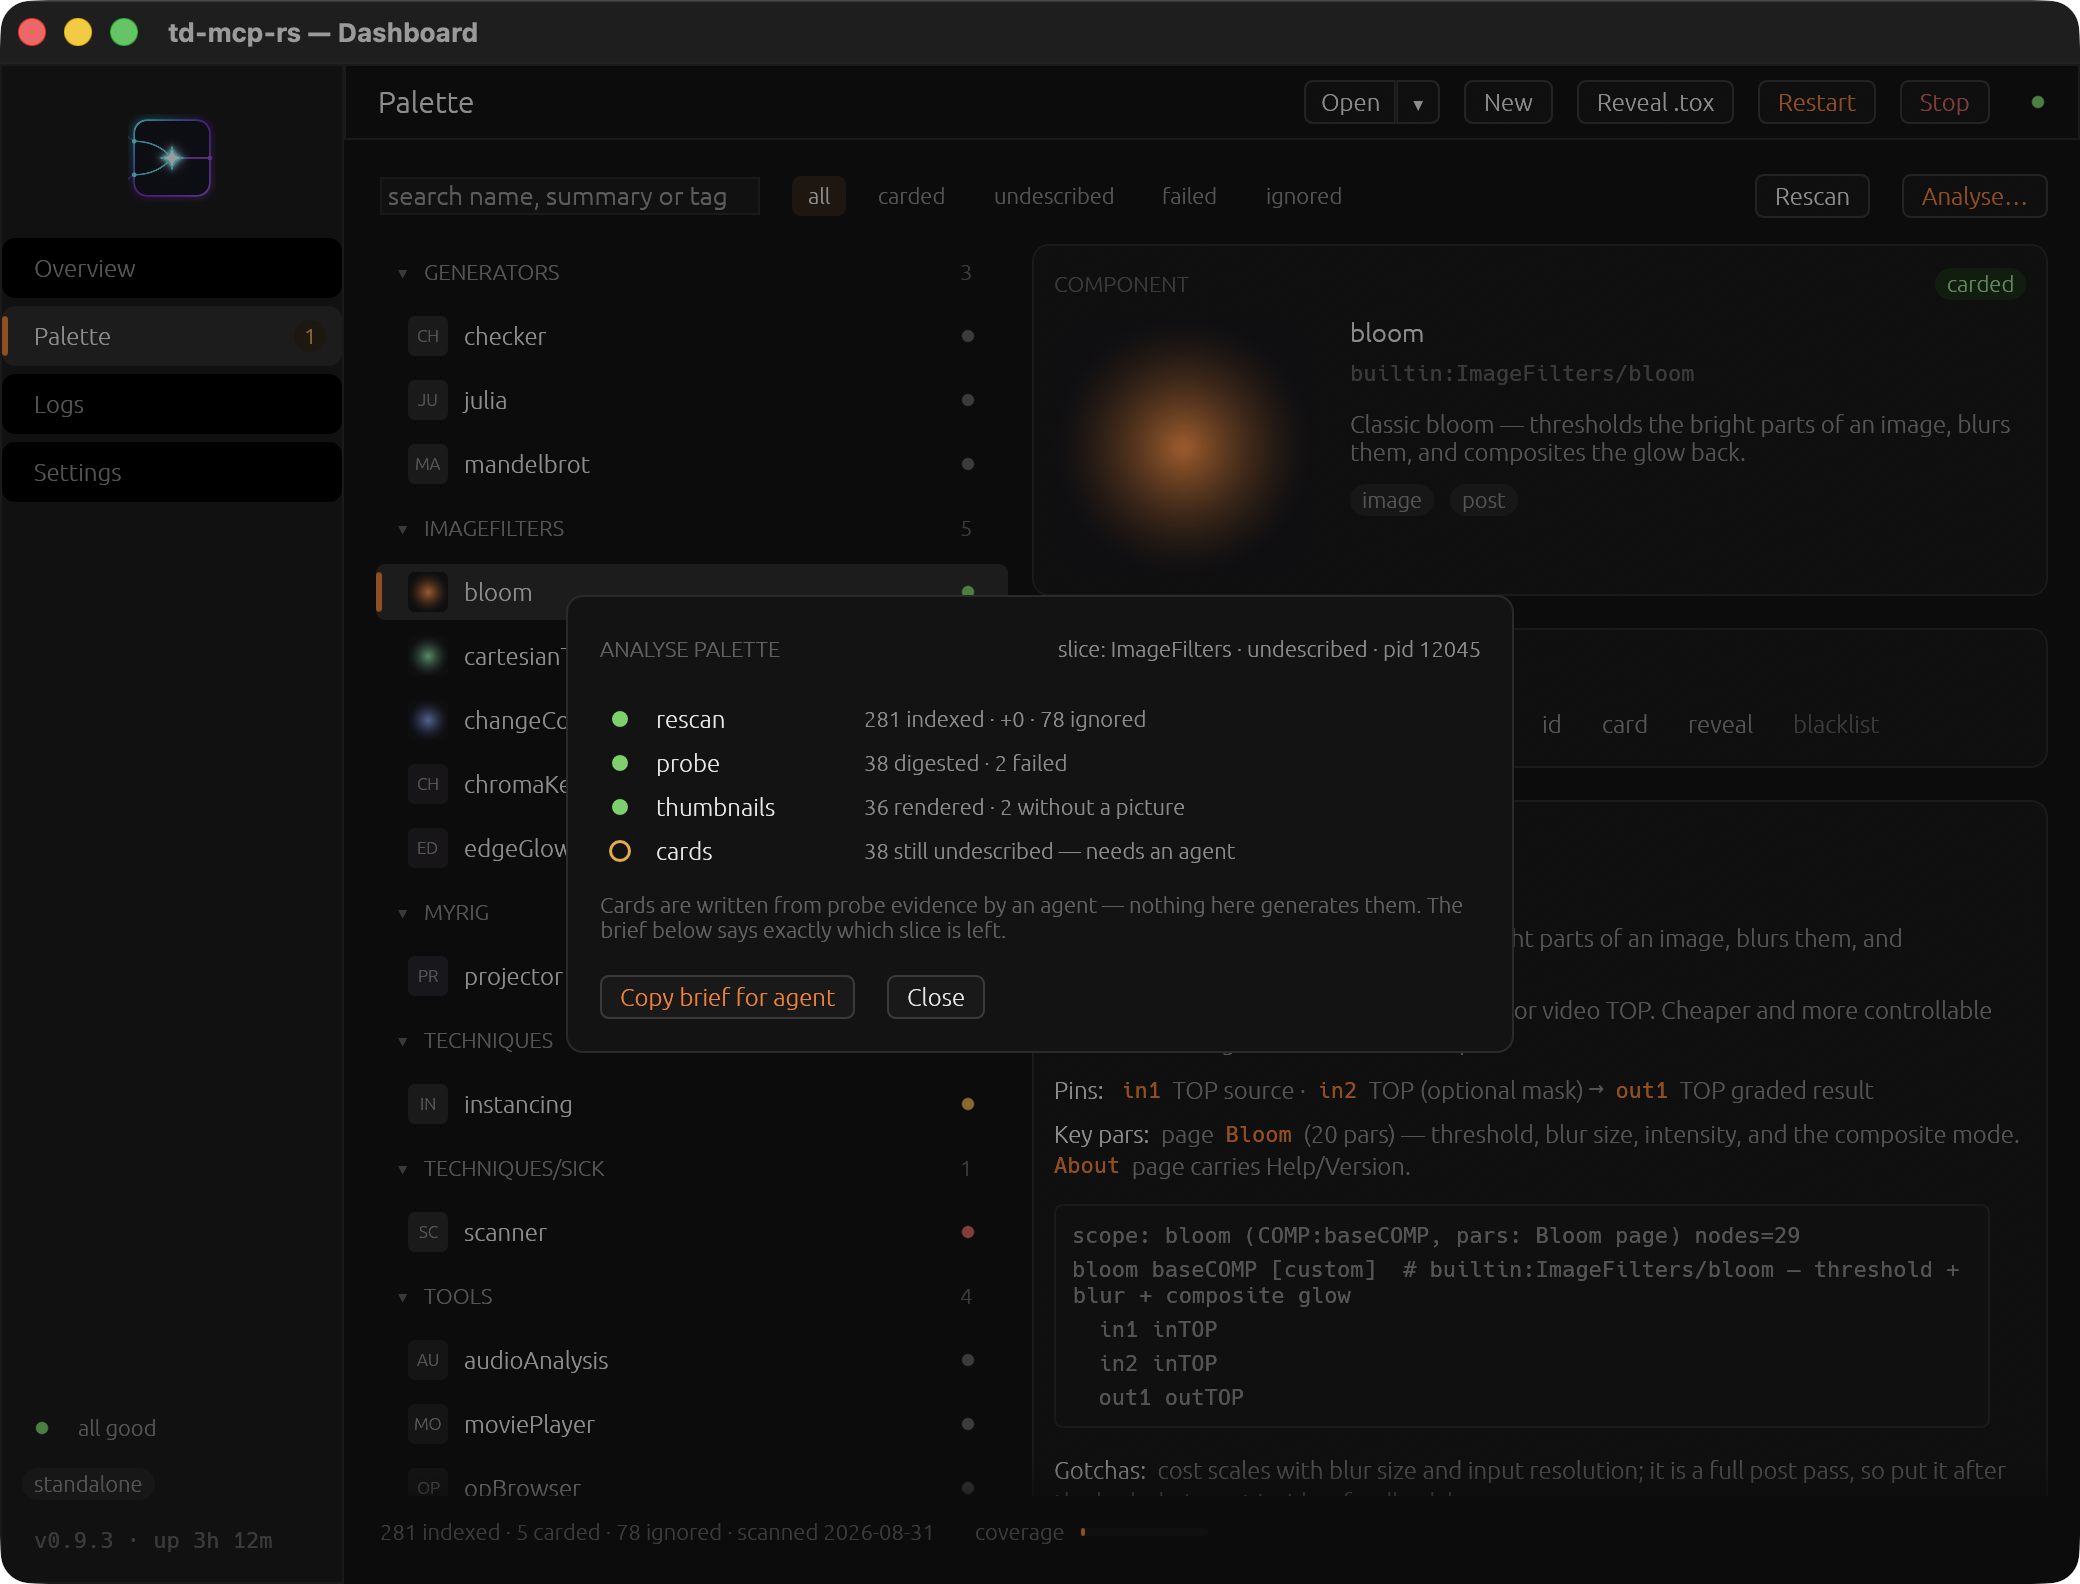
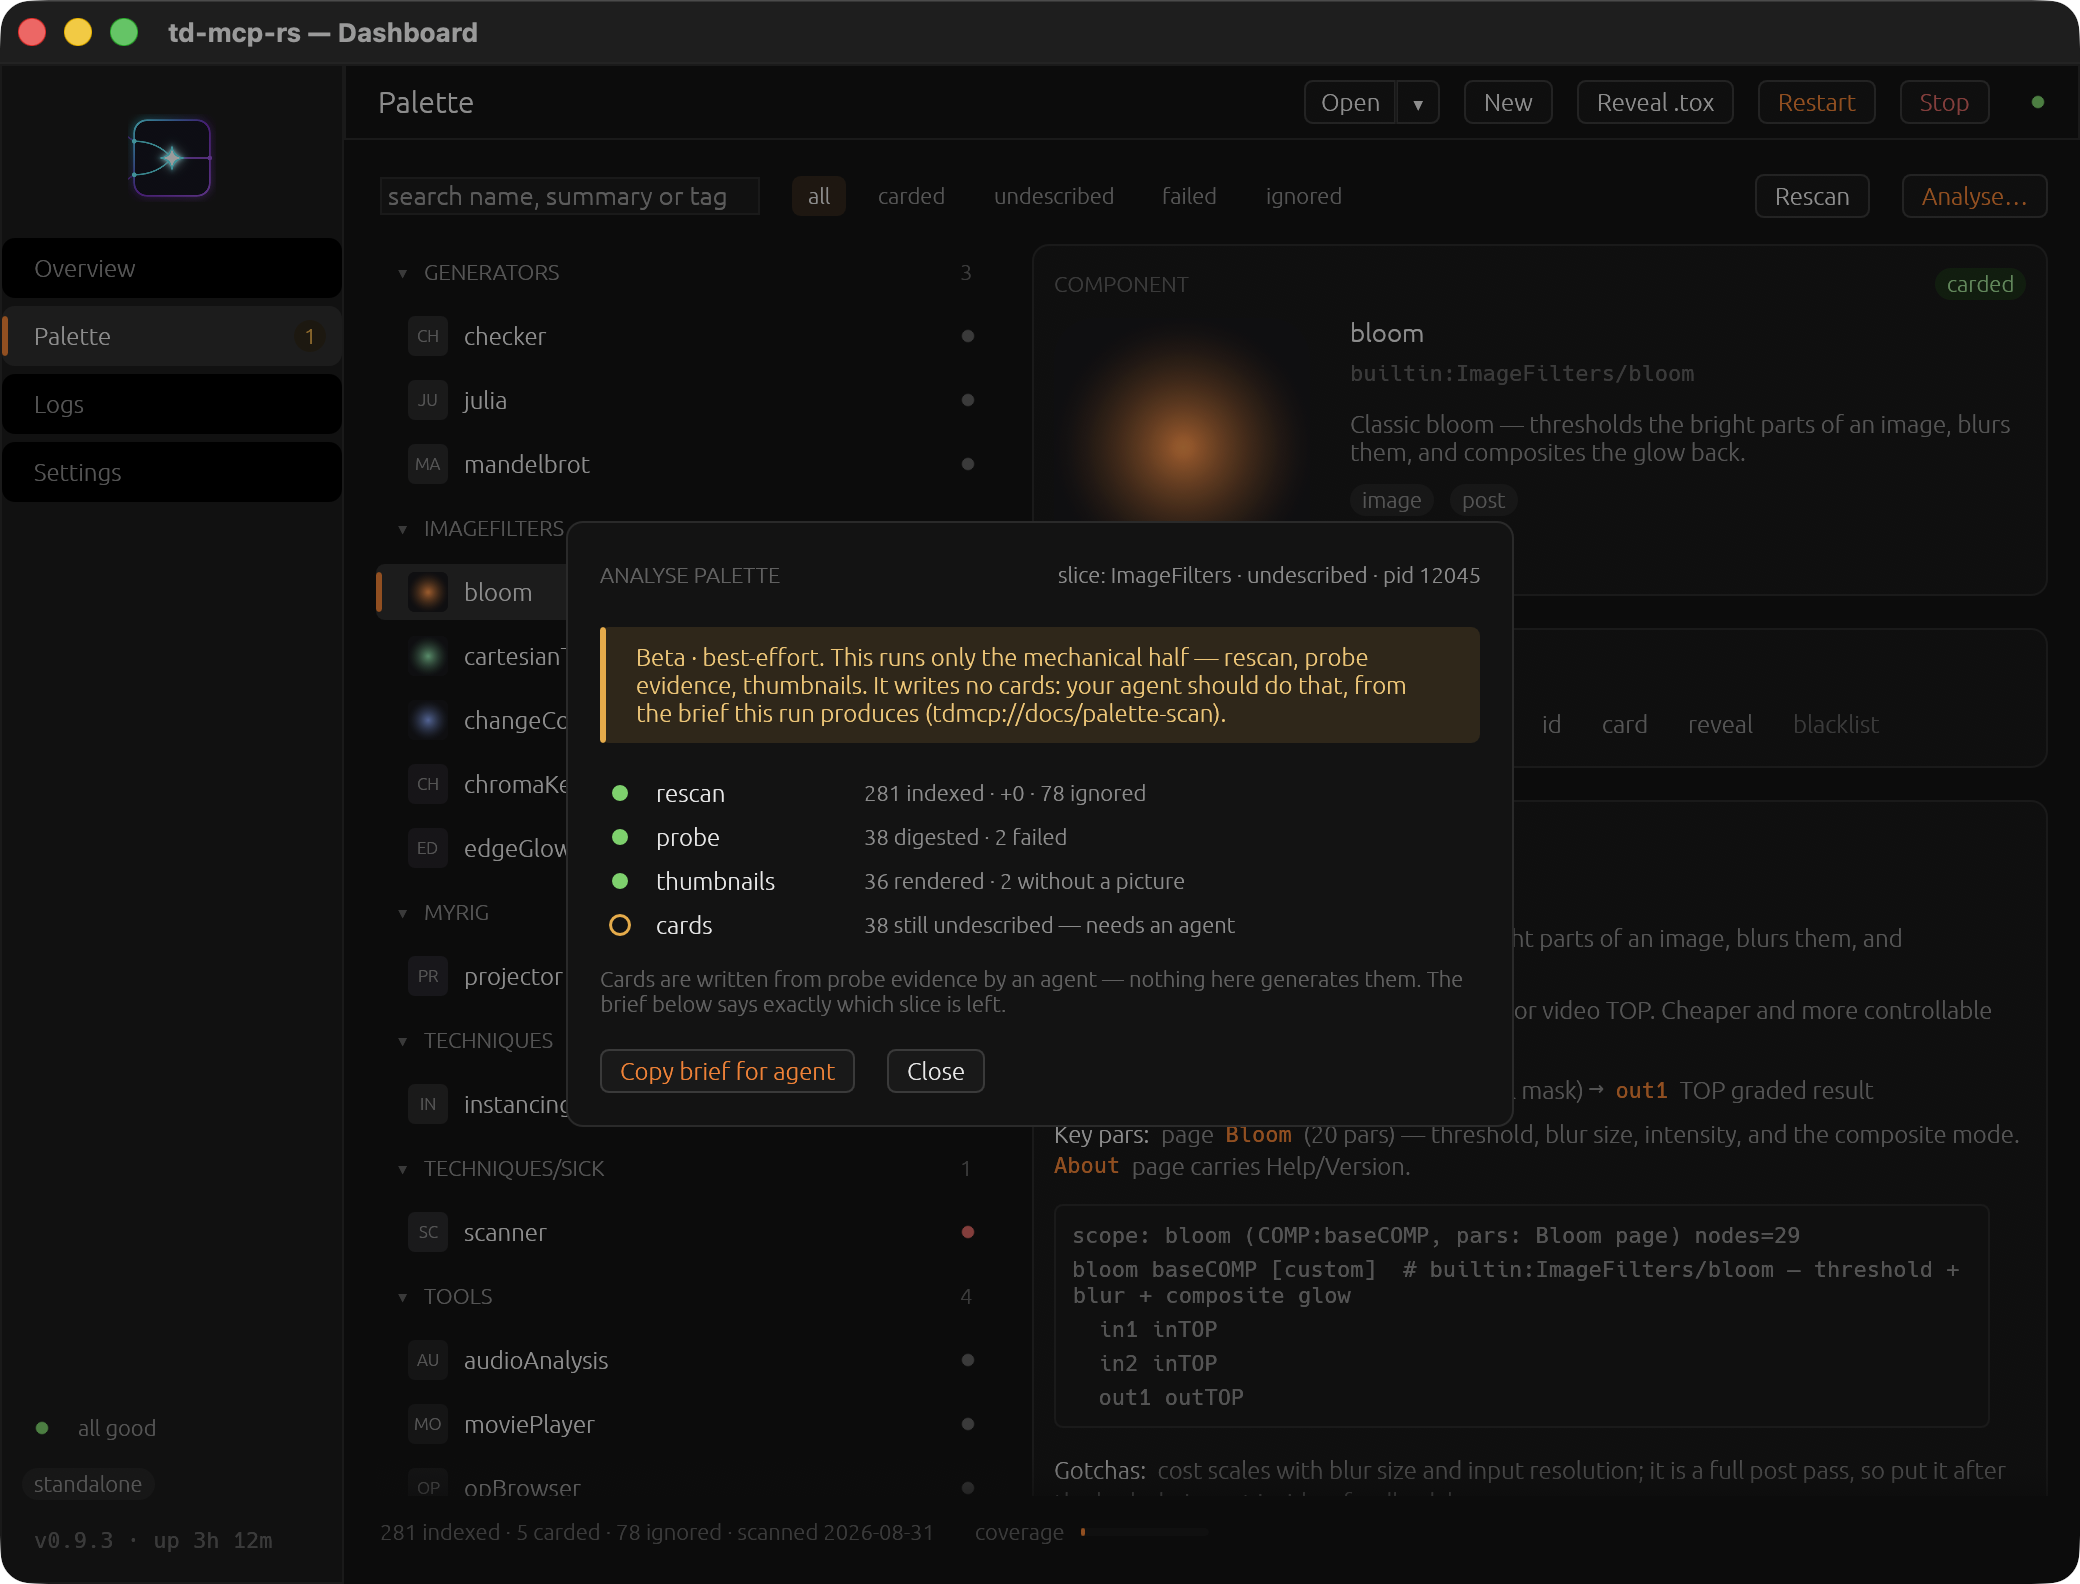
fix: gui

Changed region(s): [[0.2812, 0.3403, 0.7188, 0.7115], [0.5, 0.6806, 0.7188, 0.7115], [0.5625, 0.3093, 0.5938, 0.3403]]

diff --git a/crates/tdmcp-gui/src/dashboard/palette.rs b/crates/tdmcp-gui/src/dashboard/palette.rs
@@ -964,6 +964,18 @@ pub(crate) fn analyse_modal(app: &mut DashboardApp, ctx: &egui::Context) {
         );
         ui.add_space(sp::MD);
 
+        // The GUI only does the mechanical half — it has no LLM, so cards are
+        // never written here. Say so up front: this is a best-effort, partial
+        // pass, and the describe loop belongs to the agent.
+        crate::theme::banner(
+            ui,
+            crate::theme::BannerTone::Warn,
+            "Beta · best-effort. This runs only the mechanical half — rescan, probe \
+             evidence, thumbnails. It writes no cards: your agent should do that, from \
+             the brief this run produces (tdmcp://docs/palette-scan).",
+        );
+        ui.add_space(sp::MD);
+
         if !running && !finished {
             ui.label(
                 egui::RichText::new(

diff --git a/README.md b/README.md
@@ -14,6 +14,7 @@ your whole studio, with whatever assistant you already use.**
 [![Version](https://img.shields.io/badge/version-0.1.4-6e7bff?style=flat-square)](CHANGELOG.md)
 [![Platform](https://img.shields.io/badge/Windows%20%C2%B7%20macOS-b58cff?style=flat-square)](#step-1--install-the-daemon)
 [![No account](https://img.shields.io/badge/no%20account%20%C2%B7%20no%20cloud%20%C2%B7%20no%20telemetry-ff8b3d?style=flat-square)](#private-by-design)
+[![Buy me a coffee](https://img.shields.io/badge/%E2%98%95_Buy_me_a_coffee-FFDD00?style=flat-square&logo=buymeacoffee&logoColor=000000)](https://buymeacoffee.com/asyade)
 
 <img src="docs/screens/overview-populated.png" alt="The td-mcp-rs dashboard showing a live TouchDesigner fleet across two machines" width="860">
 
@@ -110,16 +111,7 @@ Four steps, about five minutes. Windows and macOS.
 
 ### Step 1 · Install the daemon
 
-**The easy way — a real installer.** Grab the latest from the
-[Releases page](https://github.com/Verbalize-public/td-mcp-rs/releases):
-
-| Your OS | Download | Then |
-| --- | --- | --- |
-| Windows | `tdmcp-rs-*-x64-setup.exe` | Run it. If SmartScreen appears: **More info → Run anyway**. |
-| macOS | `tdmcp-rs-*.dmg` | Drag to Applications, then **right-click → Open** the first time. |
-
-> These builds are not code-signed yet, which is why your OS asks twice. The
-> source is right here if you'd rather read it first.
+**From pre-built binary** - Available soon
 
 **The from-source way** — needs [Rust](https://rustup.rs) (`rustup` installer,
 then restart your terminal). This puts `tdmcp-daemon` on your `PATH`, which
@@ -498,10 +490,11 @@ which assistants are connected, and what just happened.
 - [x] Offline `.toe` / `.tox` editing via Derivative's own tools
 - [x] Bridge injection into existing projects
 - [x] Popup detection and dismissal (Win32 + UIA, macOS Accessibility)
-- [x] Palette awareness — index, probe, place, blacklist
+- [x] Palette awareness — index, probe, place, blacklist, plus a dashboard
+      section that browses the roster with rendered thumbnails
 - [x] Federation — master/slave fleets over the LAN, PSK-protected
 - [x] Built-in operate manual, served over MCP or exported to files
-- [x] Tray dashboard with Logs / Settings, plus headless mode
+- [x] Tray dashboard with Palette / Logs / Settings, plus headless mode
 - [x] Self-contained delivery — one binary, one drop-in `.tox`
 - [x] Claude Code plugin, plus Windows and macOS installers
 

diff --git a/docs/GUI_MAP.md b/docs/GUI_MAP.md
@@ -153,8 +153,9 @@ sidebar footer. Present on every tab.
 
 ### Sidebar
 Centered brand mark (`theme::logo_texture`, cached per context; falls back to
-the text brand if decode fails) → nav items (Overview carries the live
-attention count pill) → bottom footer stack: health LED + word
+the text brand if decode fails) → nav items (Overview carries the live fleet
+attention count pill; Palette carries the failed-probe count) → bottom footer
+stack: health LED + word
 (`all good` / `attention` / `offline`, tooltip: attention breakdown), role
 badge (`standalone` / `master` / `slave` / `offline`), and a mono
 `v<ver> · up <t>` meta line (hidden while unreachable).
@@ -170,6 +171,25 @@ badge (`standalone` / `master` / `slave` / `offline`), and a mono
   slave self-view (master url/id, Go-standalone confirm).
 - MCP CLIENTS card: session rows — client name/version, connected-for.
 - Empty/loading states with guidance + CTA.
+
+### Palette tab
+Toolbar: search + card-state chips (all / carded / undescribed / stale /
+failed / ignored — mapped onto the tool's `select`), and RTL `Rescan` /
+`Analyse…` actions (Analyse includes the thumbnail pass). Left panel: virtualized category tree
+(`ScrollArea::show_rows`) — uppercase section-header category rows with counts
+and a ▾/▸ disclosure; component rows carry a thumbnail tile (stored PNG, or a
+painted monogram placeholder when none exists) and a status dot
+(carded · undescribed · stale · failed/suspect · ignored, the last dimmed).
+Detail pane: rendered preview (256px) + identity, PINS / PARS lines from the
+probe digest, the card body via the in-house Markdown renderer (`card_text`:
+bold lead-ins, inline mono, fenced blocks as mono panels, bullets), and the
+action row — `Copy reference` (agent-ready brief with the literal `place`
+step), `Copy place step`, and a `[⋯]` menu (Copy id / Copy card markdown /
+Reveal .tox / Ignore · Unignore). The Analyse modal
+(`widgets::modal_shell`) runs rescan → probe (batches of 3, cancellable,
+explicit-id targets, throwaway-pid offer when the fleet is empty) →
+thumbnails, then offers a handoff brief; a Warn banner states up front that
+the GUI writes no cards — that half belongs to the agent.
 
 ### Logs tab
 Toolbar: level chips + text filter + pause/auto-scroll + clear + reveal-dir;

diff --git a/docs/E2E_CHECKLIST.md b/docs/E2E_CHECKLIST.md
@@ -198,6 +198,22 @@ breadcrumb clearing policy, extension-slot dropping) are documented as
 shipped behavior in [`CONTRACT.md`](CONTRACT.md) § `palette_index` /
 `palette_probe`.
 
+## Palette GUI
+
+Run against the live daemon with a spawned throwaway TouchDesigner
+(pid-scoped, never the user's project), plus the preview harness with no
+daemon at all. Same rebuild loop as the palette table.
+
+| # | Check | Result |
+| --- | --- | --- |
+| P11 | `palette_probe {thumbnails: true}` → 256px PNGs in `{store}/thumbs/<slug>.png` (76 stored from wrapper icon art); `list` / `get` expose the stored path as `thumb`; `thumbnailBase64` is stripped from the reply; a black/uniform viewer frame is reported (`thumbnailNote`) and **not** stored; a digest is never downgraded by a thumbnail failure | PASS |
+| P12 | Dashboard Palette tab against the live daemon: roster renders across the categories with the stored thumbnails, card-state filters drive the same `select` the tools use; preview scenes `palette-tree` / `palette-empty` / `palette-analyse` verified with no daemon (`TDMCP_PREVIEW_SCENE`) | PASS |
+| P13 | Analyse run (rescan → probe → thumbnails → agent handoff) driven from the modal, plus "Copy reference" → agent runs the `place` step verbatim | manual — the bulk loop mechanics were exercised over `POST /mcp/tools/call` (batch of 3, blacklist filtered, `remaining`-driven stop); the modal run and the paste-into-agent step remain human checks |
+
+Findings from this run: the bulk loop must drive **explicit ids** from the
+roster — `select {status: "all"}` never advances past its first page, so the
+GUI computes its target list instead of re-issuing the same selector.
+
 ## Operational caveats
 
 - `tdmcp-daemon install` skips re-extraction when `install.version` matches,

diff --git a/CHANGELOG.md b/CHANGELOG.md
@@ -17,6 +17,8 @@
 - feat(config): `[palette]` section — `user_root`, `store_dir`, and a seeded probe blacklist
 - feat(skills): `palette` and `palette-scan` cards; "look in the Palette before hand-building" umbrella rule
 - feat(palette): unwrap the palette wrapper — probe digests the real component (custom pars, In/Out pins) and lifts its `help` DAT; `place` lifts the component out of the icon shell via `copyOPs`
+- feat(palette): `palette_probe {thumbnails: true}` renders a 256px PNG per component into `{store}/thumbs/` (wrapper icon art first, shared-viewer fallback); `list`/`get` expose the stored path as `thumb`, and a black/uniform frame is reported rather than stored
+- feat(gui): Palette dashboard section — browsable roster (search + card-state filters over the same selector the tools use), rendered thumbnails, a ready-to-paste "Copy reference" agent brief per component, and an Analyse run (rescan → probe → thumbnails) that ends in a handoff brief; cards are never written here — that stays the agent's job
 
 ### Fixed
 - fix(palette): a fully blacklisted or empty probe selection now explains itself (`skipped` / `skippedTotal` / `note`) instead of returning a silent empty batch

diff --git a/claude-skills/touchdesigner/reference/palette-scan.md b/claude-skills/touchdesigner/reference/palette-scan.md
@@ -70,6 +70,13 @@ grouped by page, `inputs`/`outputs` (its In/Out operators), `childCount`, and
 interface and drops the internals, which is usually what you want — a card
 describes how to *drive* a component, not how it is built.
 
+`thumbnails: true` also renders a 256px PNG per component into the store's
+`thumbs/` folder — Derivative's own icon art for stock wrappers, a viewer
+rasterization for unwrapped `.tox` files. It serves the GUI's palette browser,
+not your cards, so skip it unless a human is going to look at the roster; each
+rendered picture costs a little bridge time inside the same load → digest →
+destroy window. A black or uniform frame is reported, not stored.
+
 **5. Write the card** from the digest, one `describe` per component:
 
 ```json

diff --git a/skills/templates/touchdesigner/reference/palette-scan.jinja.md b/skills/templates/touchdesigner/reference/palette-scan.jinja.md
@@ -70,6 +70,13 @@ grouped by page, `inputs`/`outputs` (its In/Out operators), `childCount`, and
 interface and drops the internals, which is usually what you want — a card
 describes how to *drive* a component, not how it is built.
 
+`thumbnails: true` also renders a 256px PNG per component into the store's
+`thumbs/` folder — Derivative's own icon art for stock wrappers, a viewer
+rasterization for unwrapped `.tox` files. It serves the GUI's palette browser,
+not your cards, so skip it unless a human is going to look at the roster; each
+rendered picture costs a little bridge time inside the same load → digest →
+destroy window. A black or uniform frame is reported, not stored.
+
 **5. Write the card** from the digest, one `describe` per component:
 
 ```json
